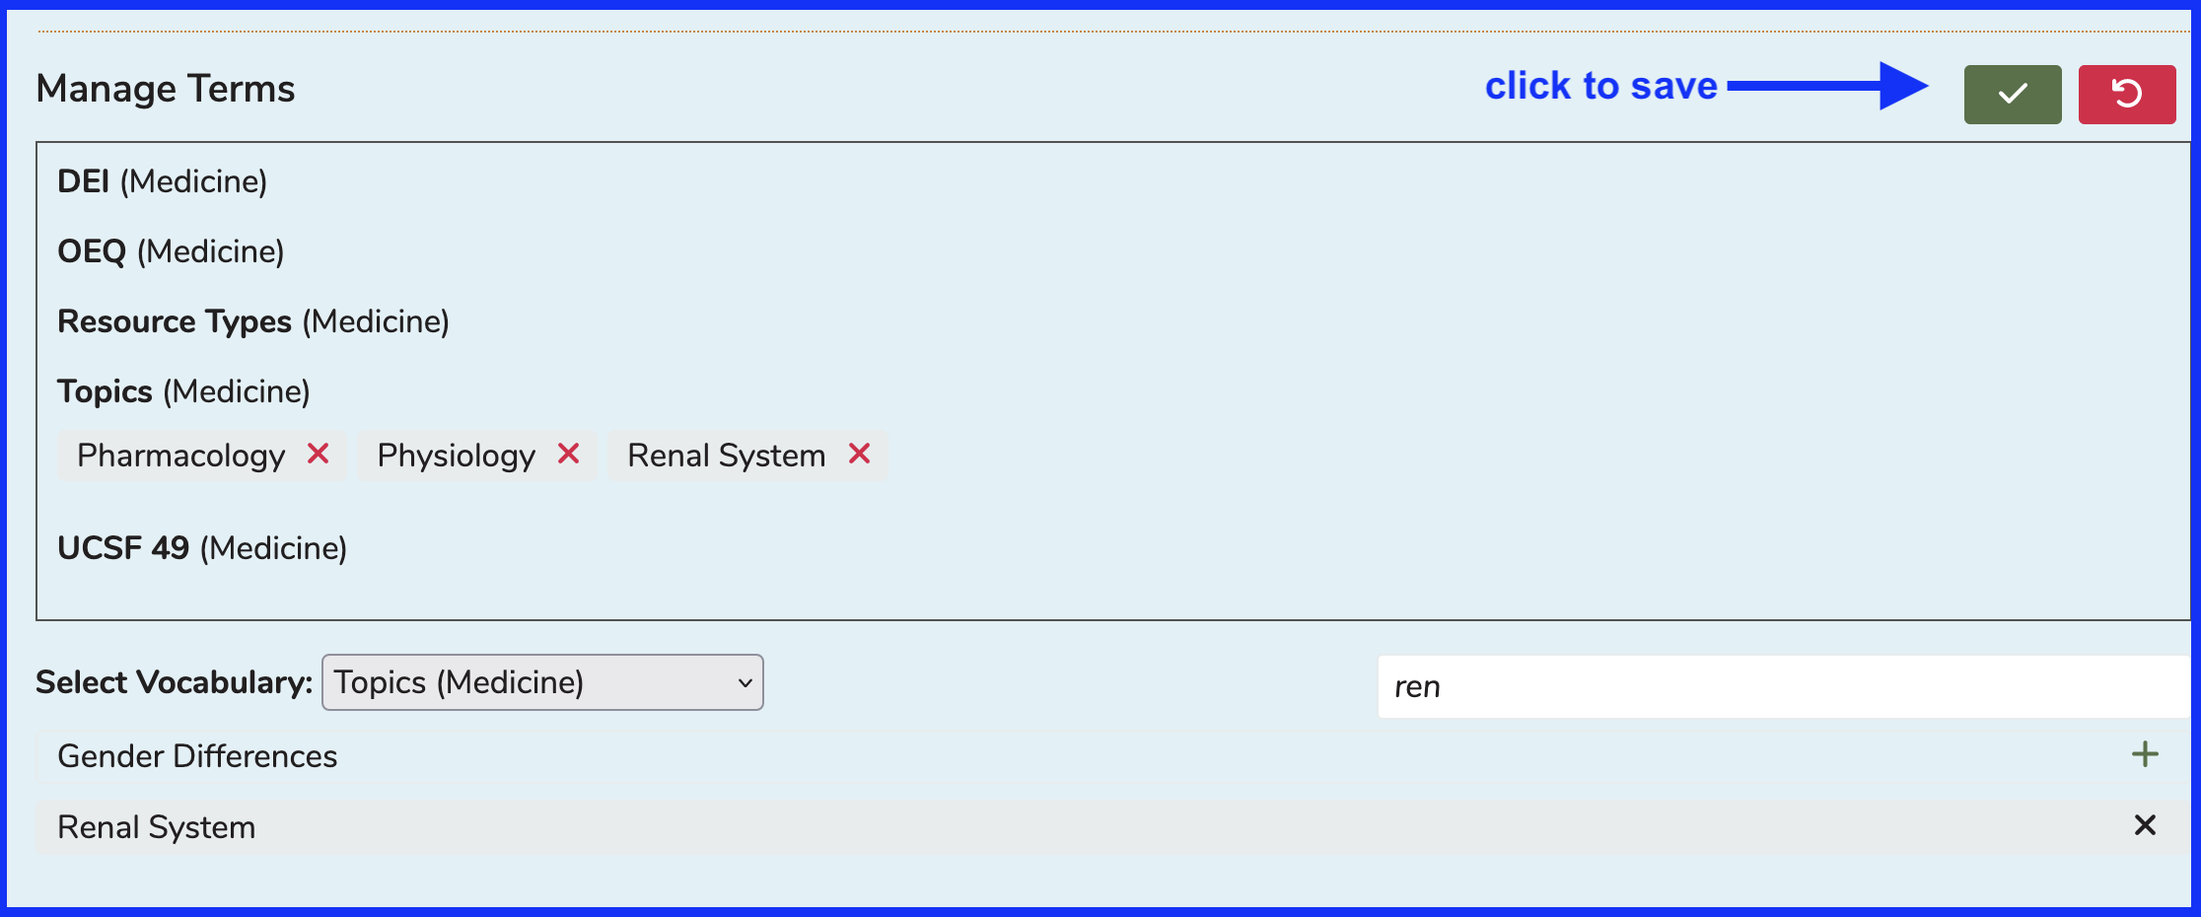
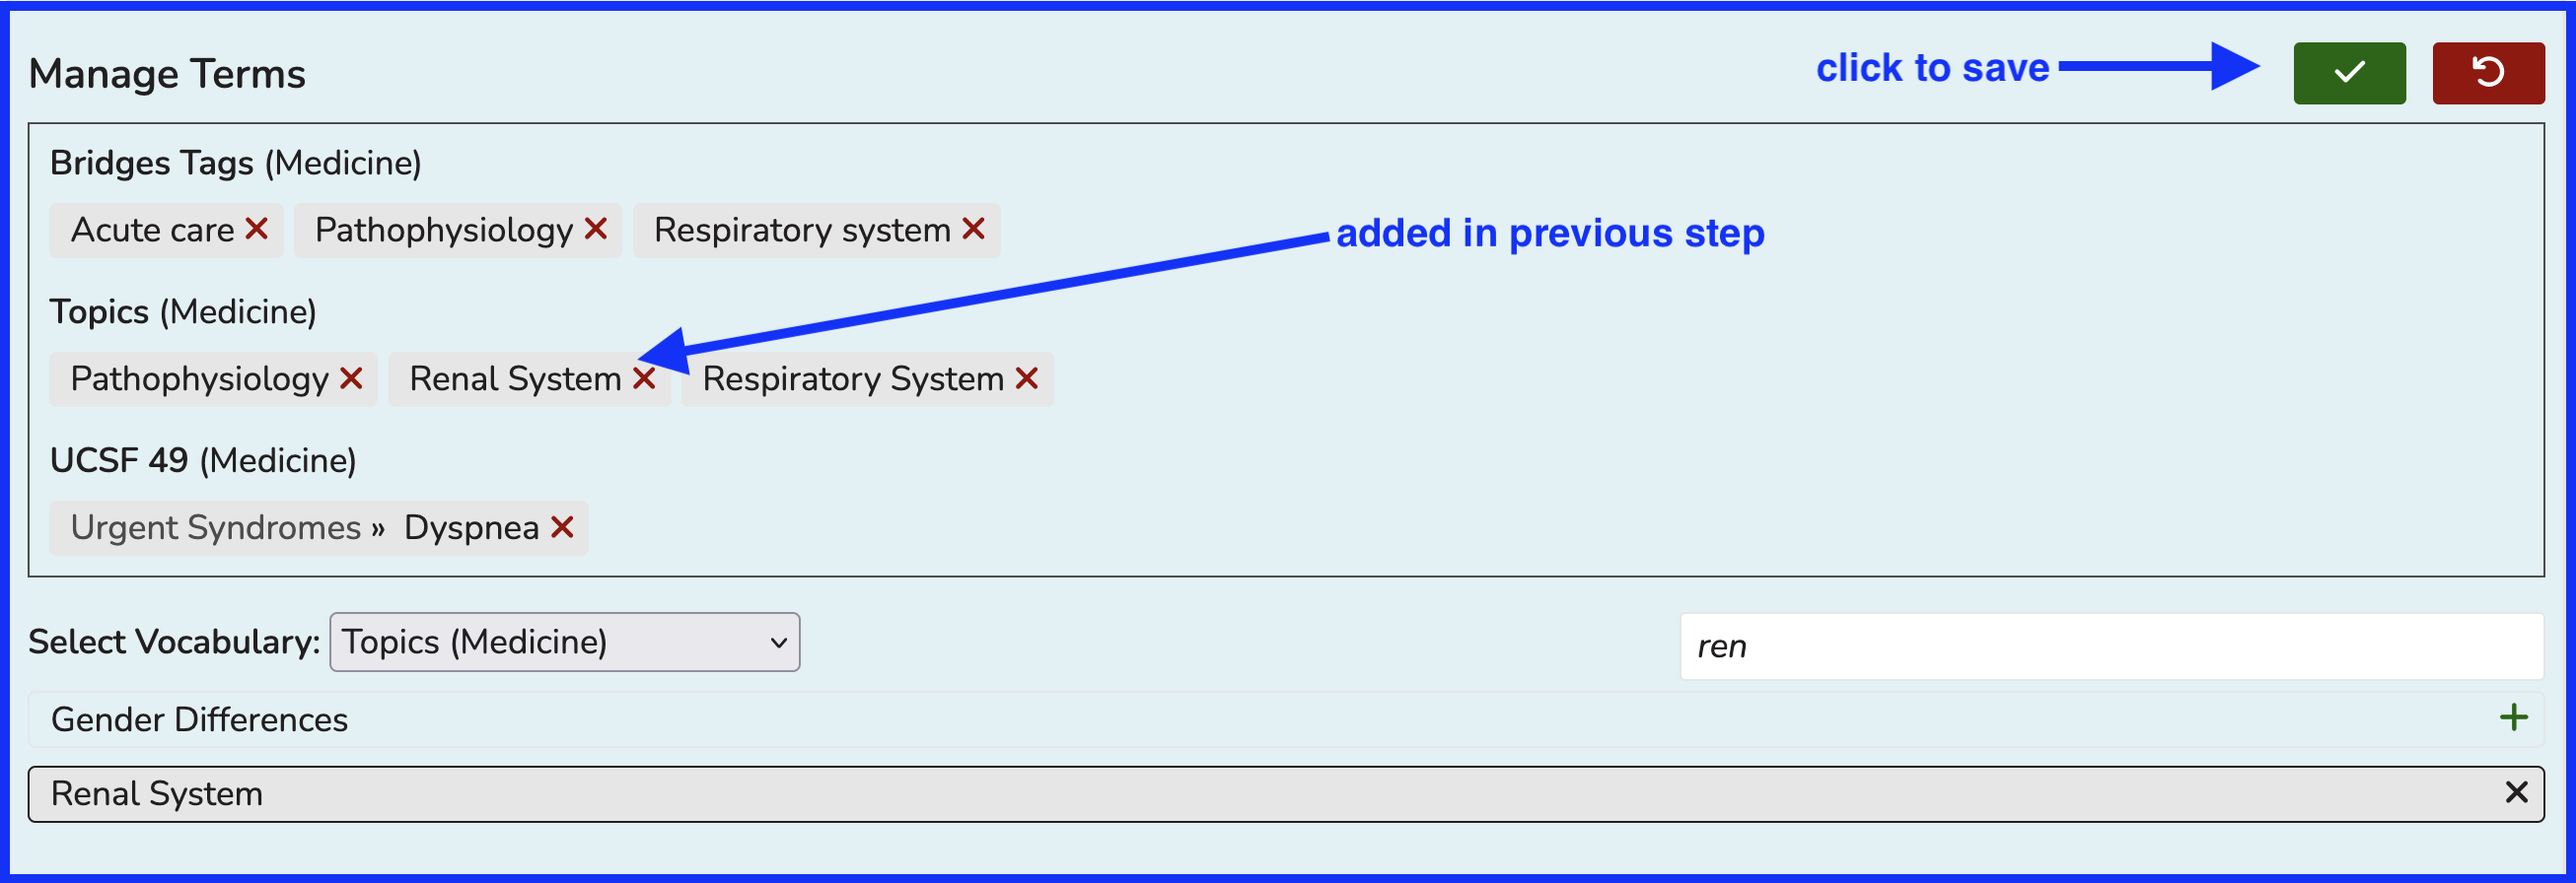
image replaced - text updated

diff --git a/courses-and-sessions/sessions/vocabulary_terms.md b/courses-and-sessions/sessions/vocabulary_terms.md
@@ -26,7 +26,7 @@ The selection list has been filtered down by entering "ren" as search criteria t
 
 ![add term to session](../../images/session_edit/add_term_to_session.png)
 
-After clicking as shown above ...
+After clicking as shown above, "Renal System" has been added to the terms associated with the session. 
 
 ![term added to session](../../images/session_edit/term_added_to_session.png)
 
